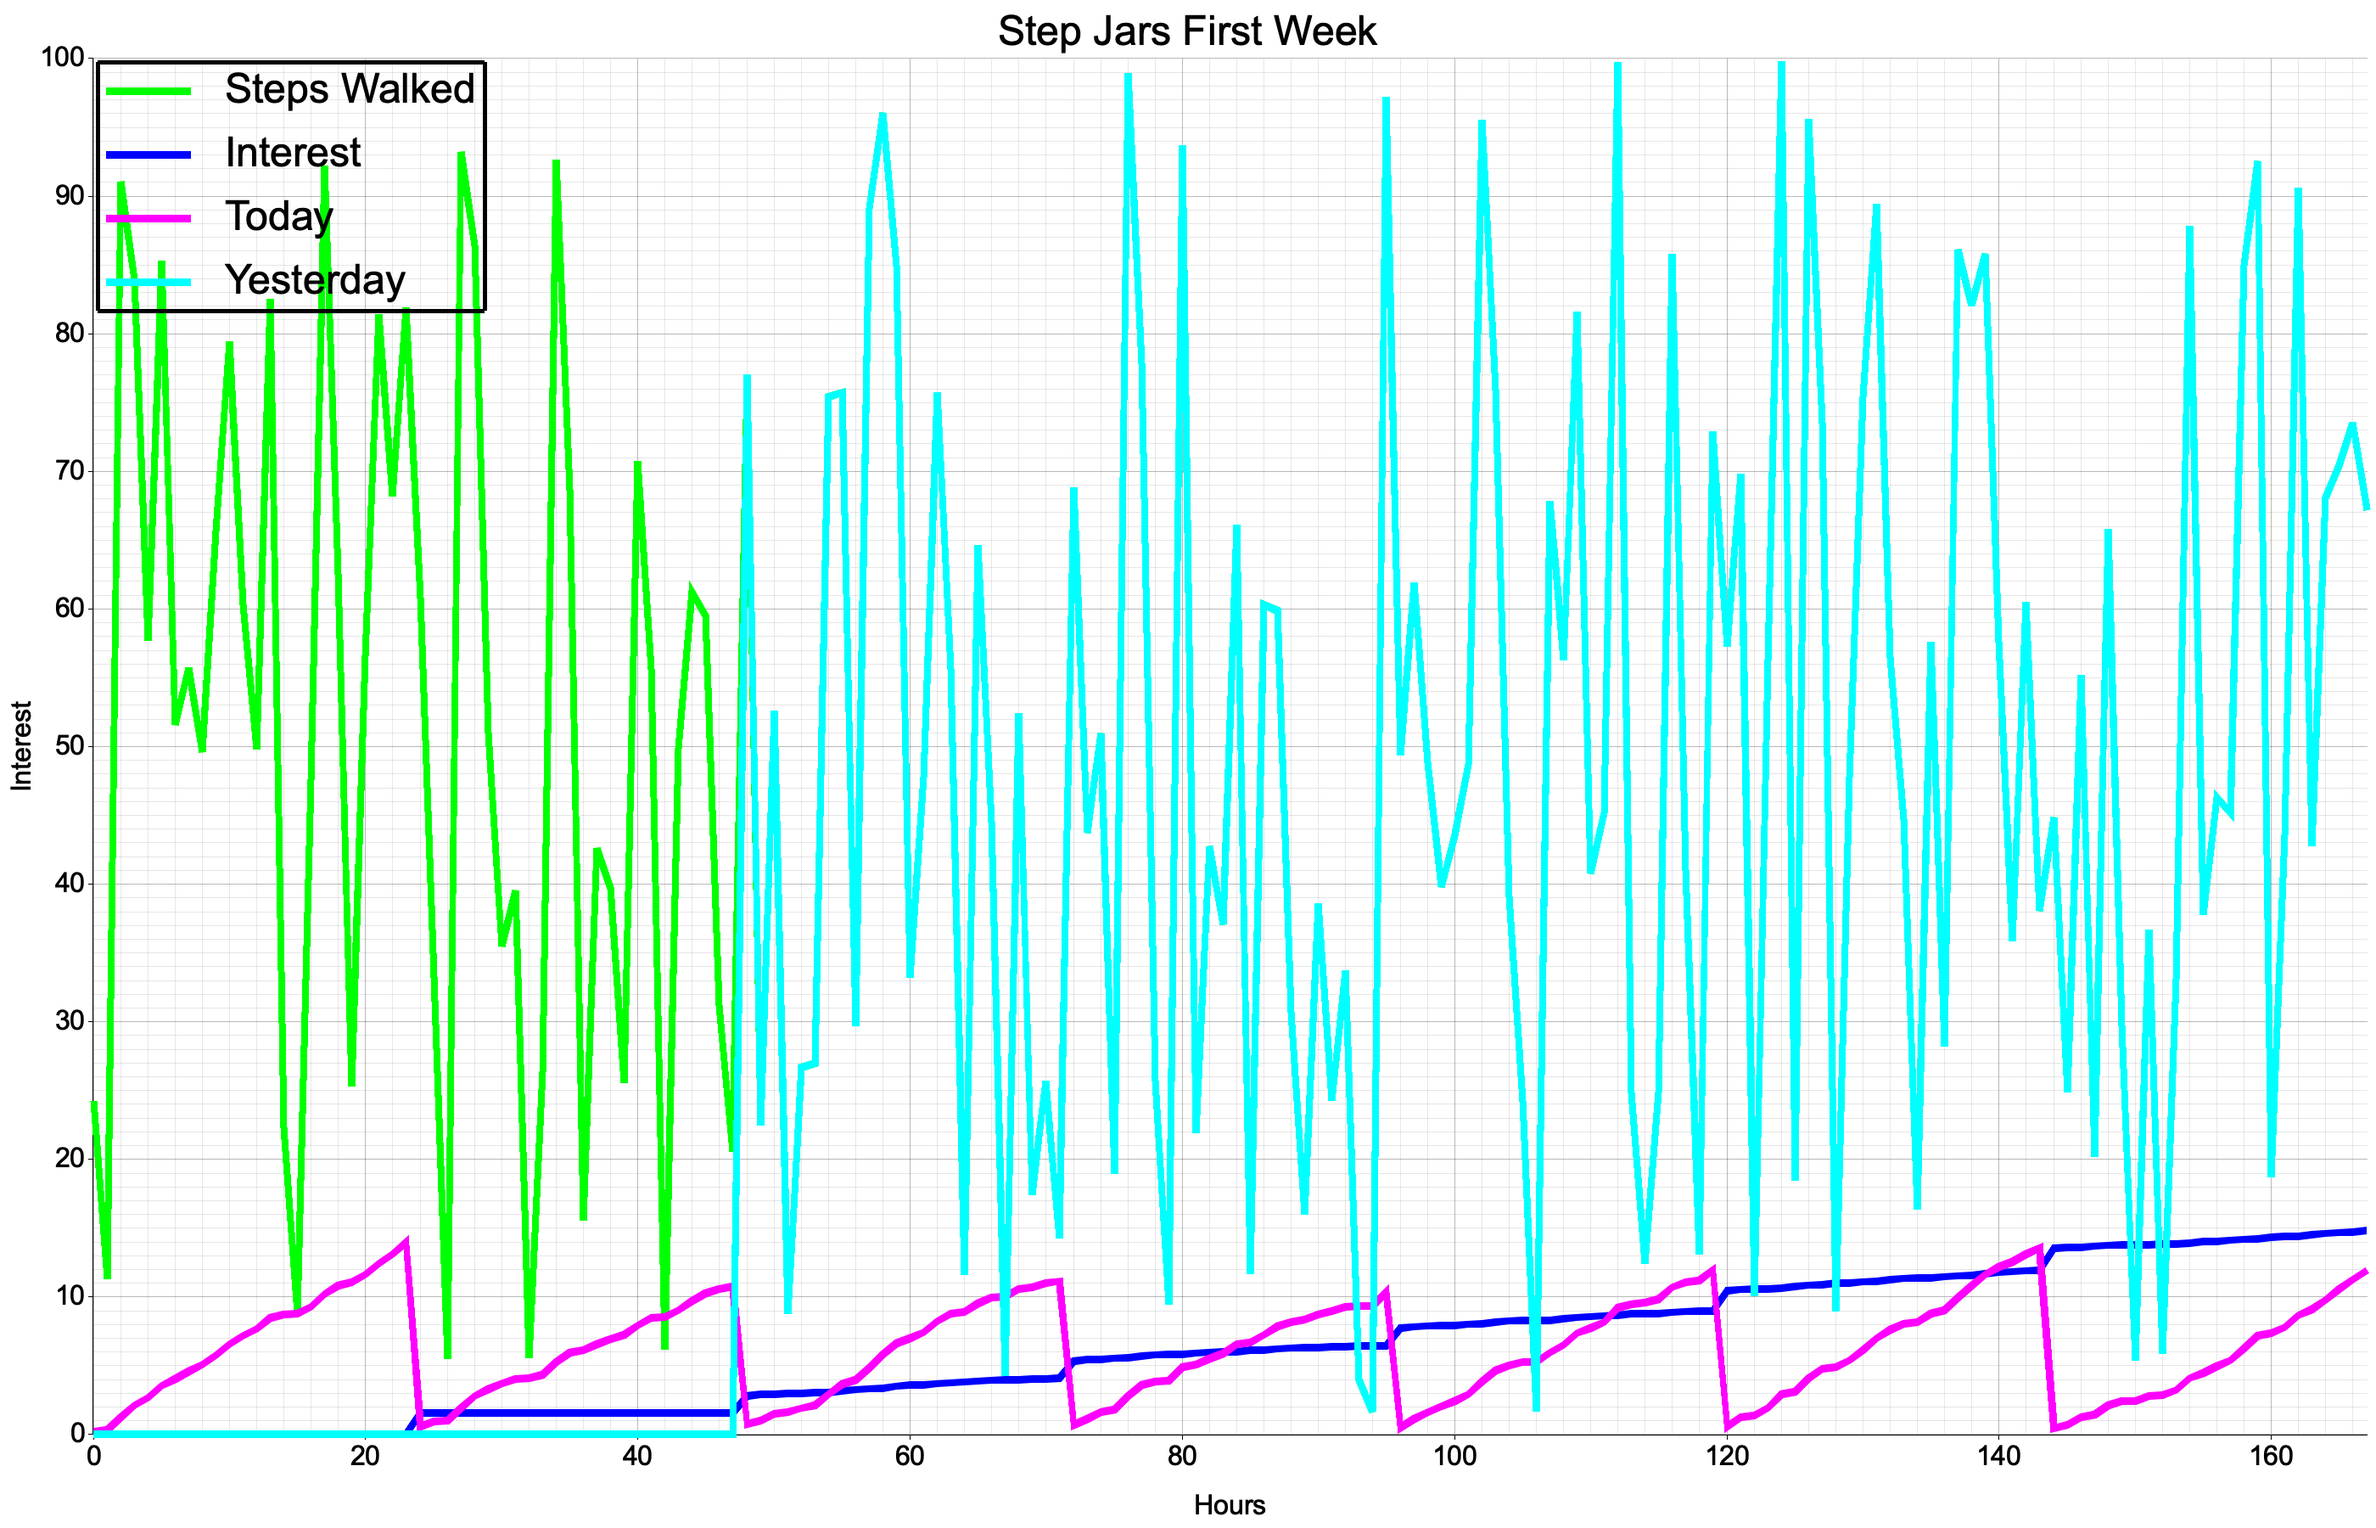
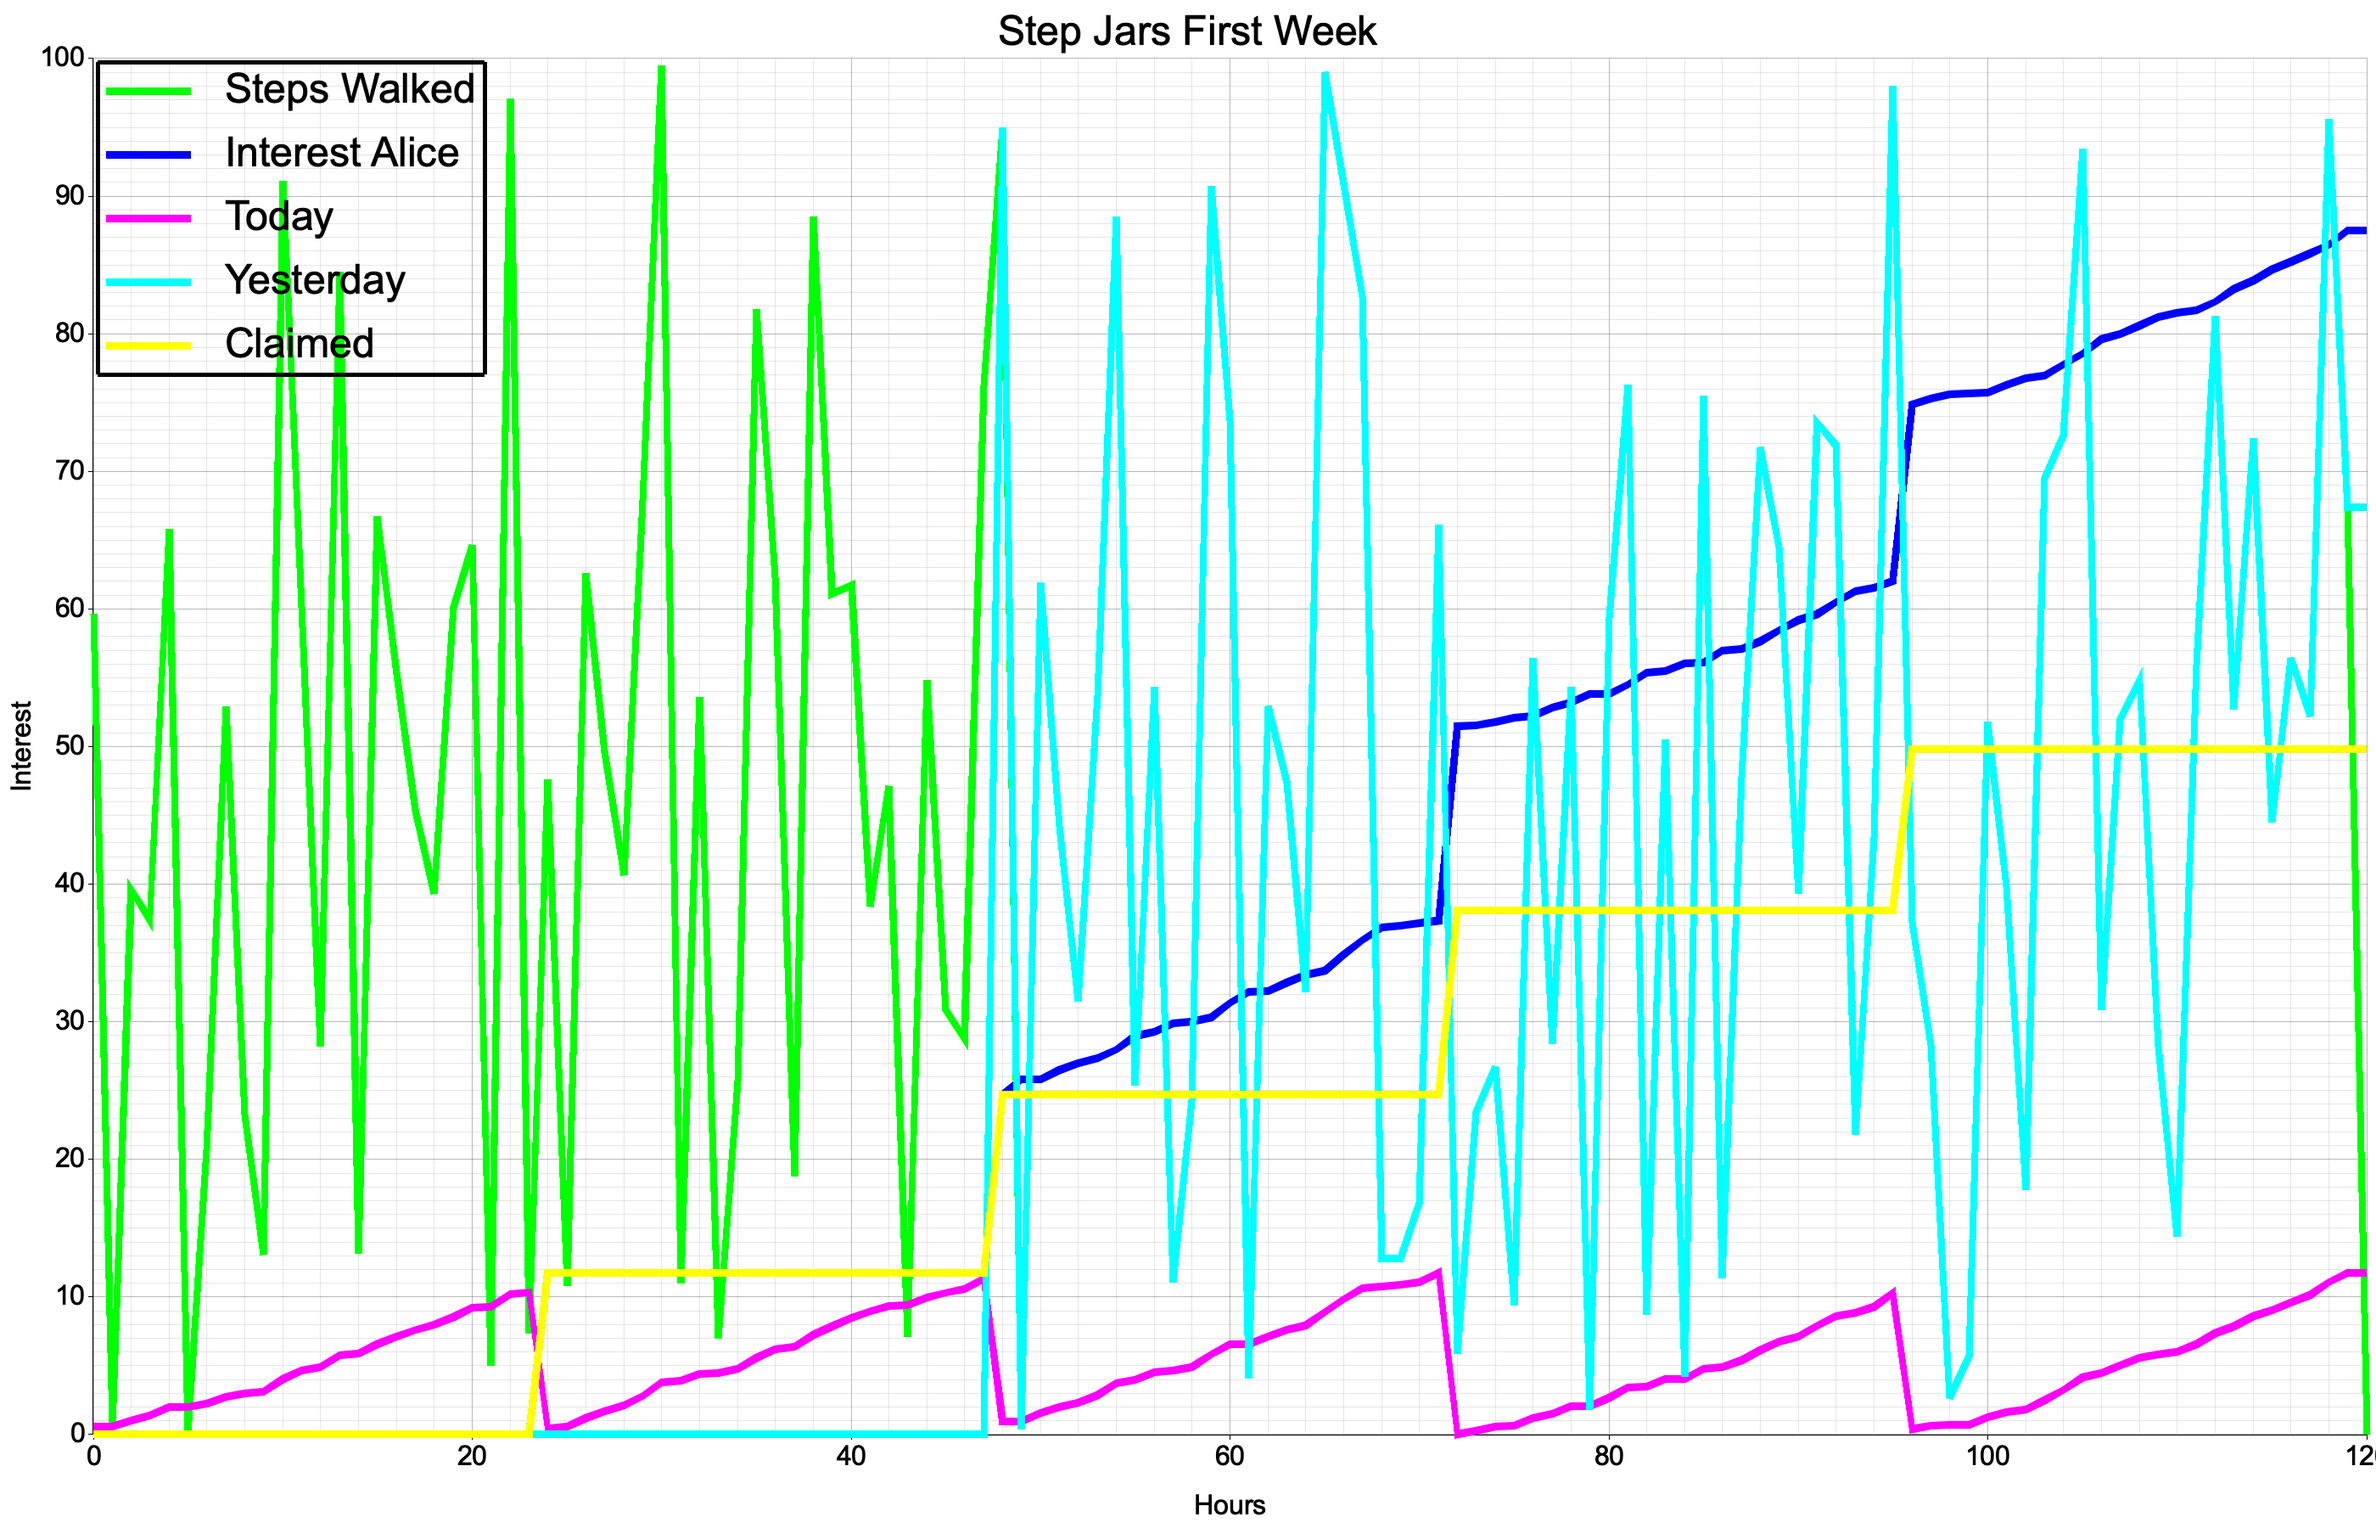
wip: testing claim

Changed region(s): [[0.0311, 0.0622, 1.0, 0.9644], [0.9321, 0.9333, 0.9632, 0.9644], [0.4971, 0.9333, 0.5282, 0.9644]]

diff --git a/contract/src/score/charts.rs b/contract/src/score/charts.rs
@@ -3,14 +3,14 @@
 use anyhow::Result;
 use fake::Fake;
 use itertools::Itertools;
-use near_sdk::test_utils::test_env::alice;
+use near_sdk::test_utils::test_env::{alice, bob};
 use sweat_jar_model::{jar::JarId, Score, Timezone, MS_IN_DAY, UTC};
 use visu::{render_chart, Graph};
 
 use crate::{
     common::test_data::set_test_log_events,
     test_builder::{JarField, ProductField::*, TestAccess, TestBuilder},
-    test_utils::{PRODUCT, SCORE_PRODUCT},
+    test_utils::{admin, PRODUCT, SCORE_PRODUCT},
 };
 
 fn generate_year_data() -> (Vec<u128>, Vec<u128>) {
@@ -19,7 +19,7 @@ fn generate_year_data() -> (Vec<u128>, Vec<u128>) {
 
     set_test_log_events(false);
 
-    let mut context = TestBuilder::new()
+    let mut ctx = TestBuilder::new()
         .product(SCORE_PRODUCT, [APY(0), ScoreCap(20_000)])
         .jar(STEP_JAR, JarField::Timezone(Timezone::hour_shift(3)))
         .product(PRODUCT, APY(12))
@@ -28,16 +28,18 @@ fn generate_year_data() -> (Vec<u128>, Vec<u128>) {
 
     let mut result = vec![];
 
+    ctx.switch_account(admin());
+
     for day in 1..400 {
-        context.set_block_timestamp_in_days(day.try_into().unwrap());
+        ctx.set_block_timestamp_in_days(day.try_into().unwrap());
 
         if day < 100 {
-            context.record_score(UTC(MS_IN_DAY * day), (4_000..10_000).fake(), alice());
+            ctx.record_score(UTC(MS_IN_DAY * day), (4_000..10_000).fake(), alice());
         } else {
-            context.record_score(UTC(MS_IN_DAY * day), (15_000..20_000).fake(), alice());
+            ctx.record_score(UTC(MS_IN_DAY * day), (15_000..20_000).fake(), alice());
         }
 
-        result.push((context.interest(STEP_JAR), context.interest(JAR)));
+        result.push((ctx.interest(STEP_JAR), ctx.interest(JAR)));
     }
 
     result.into_iter().unzip()
@@ -61,49 +63,73 @@ fn plot_year() -> Result<()> {
     Ok(())
 }
 
-fn generate_first_week_data(_with_claim: bool) -> (Vec<u128>, Vec<u128>, Vec<u128>, Vec<u128>, Vec<u128>) {
-    const JAR: JarId = 0;
+fn generate_first_week_data() -> (Vec<u128>, Vec<u128>, Vec<u128>, Vec<u128>, Vec<u128>) {
+    const ALICE_JAR: JarId = 0;
+    const BOB_JAR: JarId = 1;
 
     set_test_log_events(false);
 
     let mut ctx = TestBuilder::new()
         .product(SCORE_PRODUCT, [APY(0), ScoreCap(20_000)])
-        .jar(JAR, JarField::Timezone(Timezone::hour_shift(0)))
+        .jar(ALICE_JAR, JarField::Timezone(Timezone::hour_shift(0)))
+        .jar(
+            BOB_JAR,
+            [JarField::Account(bob()), JarField::Timezone(Timezone::hour_shift(0))],
+        )
         .build();
 
     let mut result = vec![];
     let mut score_walked: u128;
 
-    let mut score_history = vec![];
+    let mut total_claimed: u128 = 0;
 
-    let claimed: u128 = 0;
-
-    for hour in 0..(24 * 7) {
+    for hour in 0..(24 * 5) {
         let day = hour / 24;
 
         ctx.set_block_timestamp_in_hours(hour);
 
         let score: Score = (0..1000).fake();
 
-        score_history.push(score);
+        ctx.switch_account(admin());
         ctx.record_score(UTC(day * MS_IN_DAY), score, alice());
+        ctx.record_score(UTC(day * MS_IN_DAY), score, bob());
 
         if day > 1 {
+            ctx.switch_account(admin());
             ctx.record_score(UTC((day - 1) * MS_IN_DAY), score, alice());
+            ctx.record_score(UTC((day - 1) * MS_IN_DAY), score, bob());
         }
 
         score_walked = u128::from(score);
 
-        let (today, yesterday) = ctx.score(JAR);
+        let (today, yesterday) = ctx.score(ALICE_JAR);
+
+        // if hour % 15 == 0 {
+        let claimed = ctx.claim_total(bob());
+        total_claimed += claimed;
+        // }
 
         result.push((
             score_walked,
-            ctx.interest(JAR),
-            claimed,
+            ctx.interest(ALICE_JAR),
+            total_claimed,
             today as u128,
             yesterday as u128,
         ));
     }
+
+    let (today, yesterday) = ctx.score(ALICE_JAR);
+
+    let claimed = ctx.claim_total(bob());
+    total_claimed += claimed;
+
+    result.push((
+        0,
+        ctx.interest(ALICE_JAR),
+        total_claimed,
+        today as u128,
+        yesterday as u128,
+    ));
 
     result.into_iter().multiunzip()
 }
@@ -111,12 +137,12 @@ fn generate_first_week_data(_with_claim: bool) -> (Vec<u128>, Vec<u128>, Vec<u12
 #[test]
 #[ignore]
 fn plot_first_week() -> Result<()> {
-    let (score_walked, interest, _claimed, today, yesterday) = generate_first_week_data(false);
+    let (score_walked, interest_alice, claimed, today, yesterday) = generate_first_week_data();
 
     render_chart(Graph {
         title: "Step Jars First Week",
-        data: [&score_walked, &interest, &today, &yesterday],
-        legend: ["Steps Walked", "Interest", "Today", "Yesterday"],
+        data: [&score_walked, &interest_alice, &today, &yesterday, &claimed],
+        legend: ["Steps Walked", "Interest Alice", "Today", "Yesterday", "Claimed"],
         x_title: "Hours",
         y_title: "Interest",
         output_file: "../docs/first_week.png",

diff --git a/contract/src/score/tests.rs b/contract/src/score/tests.rs
@@ -1,22 +1,33 @@
 #![cfg(test)]
 
-use near_sdk::test_utils::test_env::alice;
-use sweat_jar_model::{jar::JarId, Timezone, MS_IN_DAY, UTC};
+use fake::Fake;
+use near_sdk::{
+    test_utils::test_env::{alice, bob},
+    NearToken,
+};
+use sweat_jar_model::{jar::JarId, Score, Timezone, MS_IN_DAY, UTC};
 
 use crate::{
     common::{test_data::set_test_log_events, tests::Context},
     test_builder::{JarField, ProductField::*, TestAccess, TestBuilder},
-    test_utils::{PRODUCT, SCORE_PRODUCT},
+    test_utils::{admin, PRODUCT, SCORE_PRODUCT},
 };
 
-/// 12% jar should have the same interest as 12_000 score jar
+#[test]
+#[should_panic(expected = "Can be performed only by admin")]
+fn record_score_by_non_manager() {
+    let mut ctx = TestBuilder::new().build();
+    ctx.record_score(UTC(0), 0, alice());
+}
+
+/// 12% jar should have the same interest as 12_000 score jar walking to the limit every day
 /// Also this method tests score cap
 #[test]
 fn same_interest_in_score_jar_as_in_const_jar() {
     const JAR: JarId = 0;
     const SCORE_JAR: JarId = 1;
 
-    const DAYS: u64 = 365;
+    const DAYS: u64 = 400;
     const HALF_PERIOD: u64 = DAYS / 2;
 
     set_test_log_events(false);
@@ -35,8 +46,12 @@ fn same_interest_in_score_jar_as_in_const_jar() {
         assert!(diff <= 1, "Diff is too big {diff}");
     }
 
+    let mut total_claimed = 0;
+
     for day in 0..DAYS {
         ctx.set_block_timestamp_in_days(day);
+
+        ctx.switch_account(admin());
         ctx.record_score(UTC(day * MS_IN_DAY), 20_000, alice());
 
         compare_interest(&ctx);
@@ -47,10 +62,100 @@ fn same_interest_in_score_jar_as_in_const_jar() {
 
             let claimed = ctx.claim_total(alice());
 
+            total_claimed += claimed;
+
             assert_eq!(claimed, jar_interest + score_interest);
         }
     }
 
     assert_eq!(ctx.jar(JAR).cache.unwrap().updated_at, HALF_PERIOD * MS_IN_DAY);
     assert_eq!(ctx.jar(SCORE_JAR).cache.unwrap().updated_at, (DAYS - 1) * MS_IN_DAY);
+
+    compare_interest(&ctx);
+
+    total_claimed += ctx.claim_total(alice());
+
+    // Total claimed balance after a year from 2 jars of 12% - 24.
+    // 1 missing yoctonear is stored in claim remainder
+    assert_eq!(total_claimed, NearToken::from_near(24).as_yoctonear() - 1);
+}
+
+#[test]
+fn score_jar_claim_often_vs_claim_at_the_end() {
+    const ALICE_JAR: JarId = 0;
+    const BOB_JAR: JarId = 1;
+
+    set_test_log_events(false);
+
+    let mut ctx = TestBuilder::new()
+        .product(SCORE_PRODUCT, [APY(0), ScoreCap(20_000)])
+        .jar(ALICE_JAR, JarField::Timezone(Timezone::hour_shift(0)))
+        .jar(
+            BOB_JAR,
+            [JarField::Account(bob()), JarField::Timezone(Timezone::hour_shift(0))],
+        )
+        .build();
+
+    let mut total_claimed_bob: u128 = 0;
+    let mut _claim_interval_hours: u64 = (5..20).fake();
+
+    // Update each hour for 400 days
+    for hour in 0..(24 * 7) {
+        let day = hour / 24;
+
+        ctx.set_block_timestamp_in_hours(hour);
+
+        let score: Score = (0..1000).fake();
+
+        ctx.switch_account(admin());
+        ctx.record_score(UTC(day * MS_IN_DAY), score, alice());
+        ctx.record_score(UTC(day * MS_IN_DAY), score, bob());
+
+        if day > 1 {
+            ctx.switch_account(admin());
+            ctx.record_score(UTC((day - 1) * MS_IN_DAY), score, alice());
+            ctx.record_score(UTC((day - 1) * MS_IN_DAY), score, bob());
+        }
+
+        if hour == 24 * 3 {
+            _claim_interval_hours = (5..20).fake();
+            dbg!(ctx.interest(ALICE_JAR));
+            dbg!(ctx.interest(BOB_JAR));
+            let claimed = ctx.claim_total(bob());
+            dbg!(&claimed);
+            total_claimed_bob += claimed;
+            println!();
+            println!();
+            println!();
+            println!();
+        }
+
+        if hour == 24 * 5 {
+            _claim_interval_hours = (5..20).fake();
+            dbg!(ctx.interest(ALICE_JAR));
+            dbg!(ctx.interest(BOB_JAR));
+            let claimed = ctx.claim_total(bob());
+            dbg!(&claimed);
+            total_claimed_bob += claimed;
+            dbg!(&total_claimed_bob);
+            println!();
+            println!();
+            println!();
+            println!();
+        }
+    }
+
+    println!();
+    println!();
+    println!();
+    println!();
+
+    let claimed = ctx.claim_total(bob());
+    total_claimed_bob += claimed;
+
+    dbg!(&total_claimed_bob);
+    dbg!(ctx.interest(ALICE_JAR));
+
+    let claimed_alice = ctx.claim_total(alice());
+    dbg!(&claimed_alice);
 }

diff --git a/contract/src/test_builder/jar_builder.rs b/contract/src/test_builder/jar_builder.rs
@@ -4,7 +4,7 @@ use sweat_jar_model::Timezone;
 use crate::jar::model::Jar;
 
 pub(crate) enum JarField {
-    _Account(AccountId),
+    Account(AccountId),
     Timezone(Timezone),
 }
 
@@ -33,7 +33,7 @@ impl JarBuilder for () {
 impl JarBuilder for JarField {
     fn apply(&self, jar: Jar) -> Jar {
         match self {
-            JarField::_Account(account_id) => jar.account_id(&account_id),
+            JarField::Account(account_id) => jar.account_id(&account_id),
             JarField::Timezone(_) => jar,
         }
     }

diff --git a/contract/src/score/api.rs b/contract/src/score/api.rs
@@ -10,6 +10,8 @@ use crate::{
 #[near_bindgen]
 impl ScoreApi for Contract {
     fn record_score(&mut self, batch: Vec<(AccountId, Vec<(Score, UTC)>)>) {
+        self.assert_manager();
+
         let mut event = vec![];
 
         let now = block_timestamp_ms();
